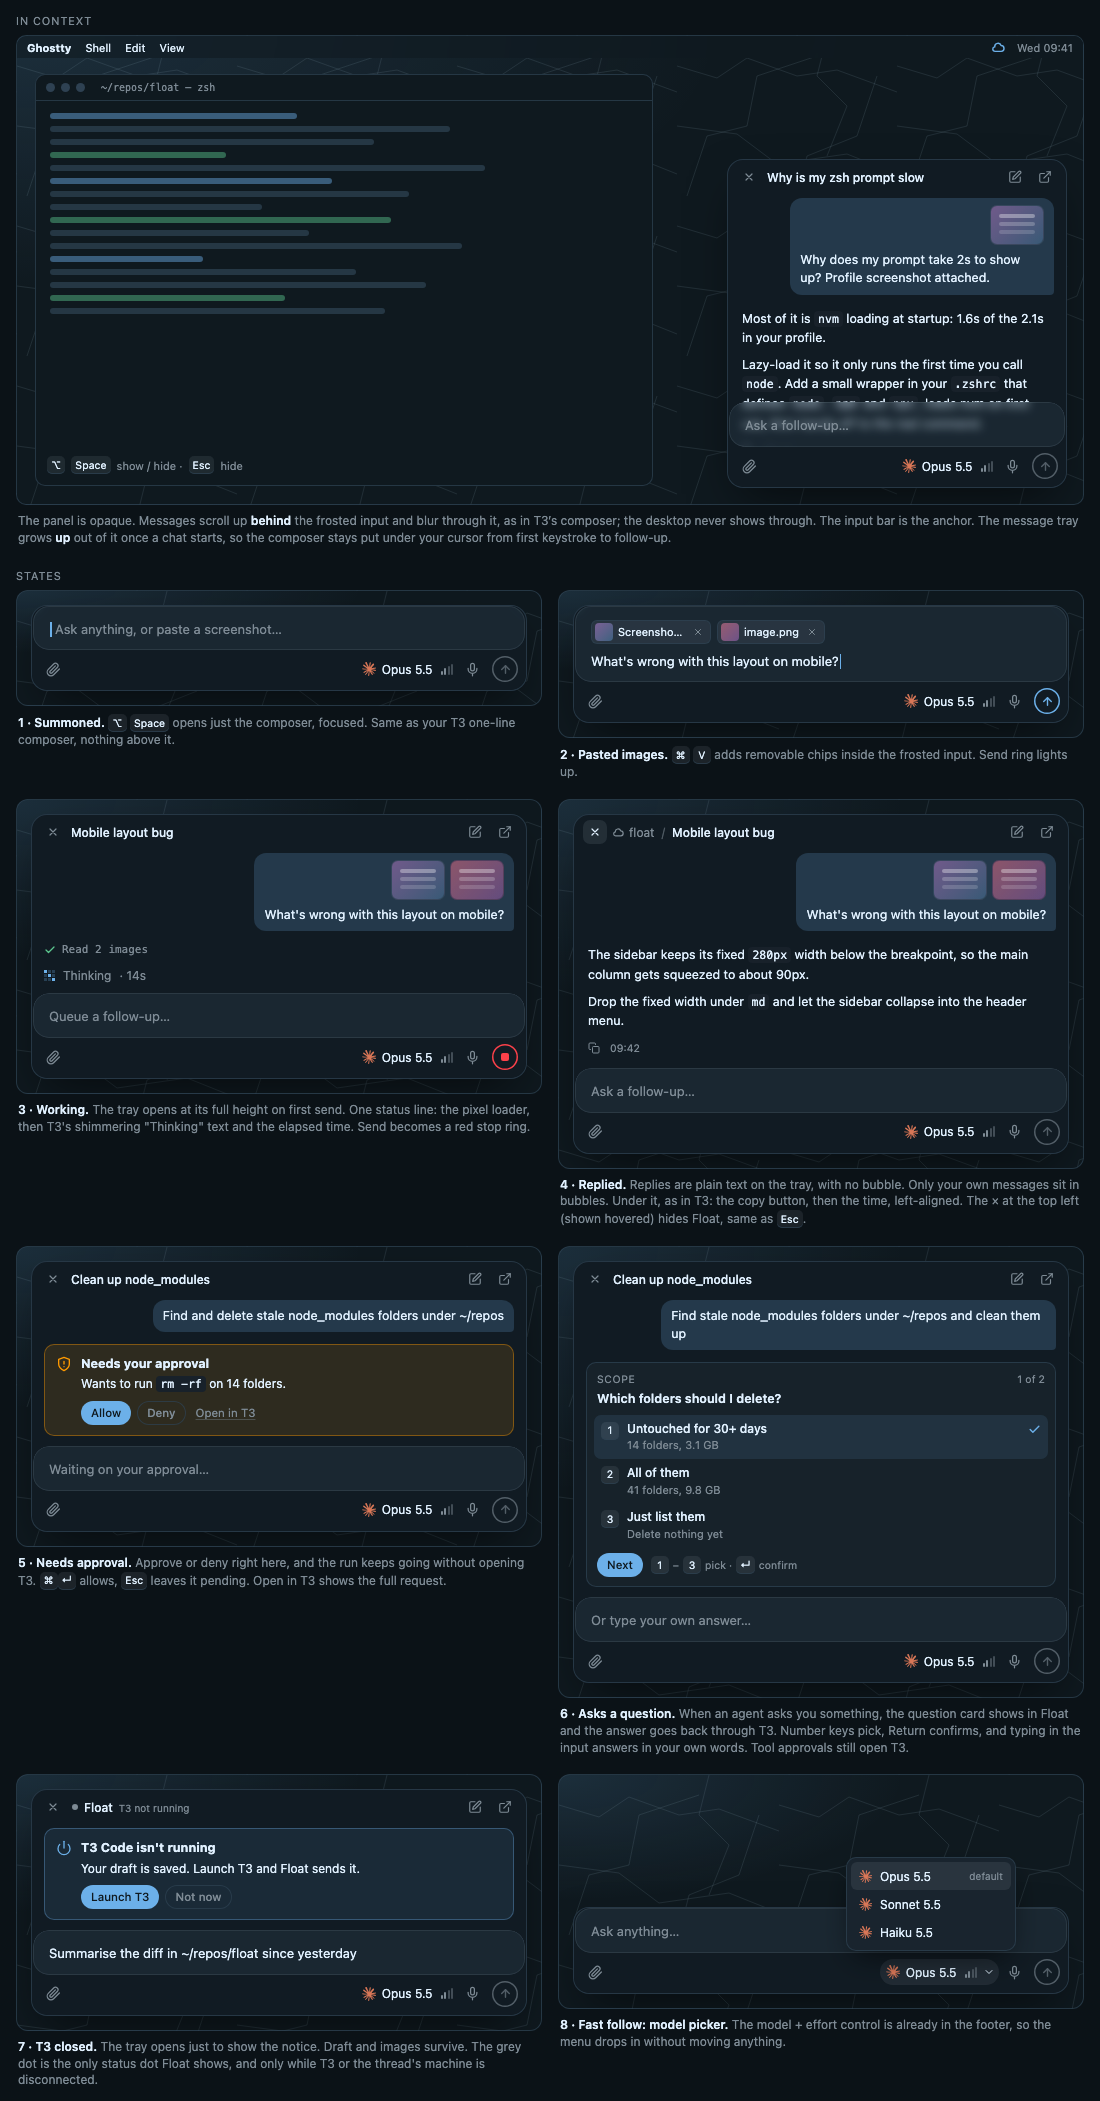
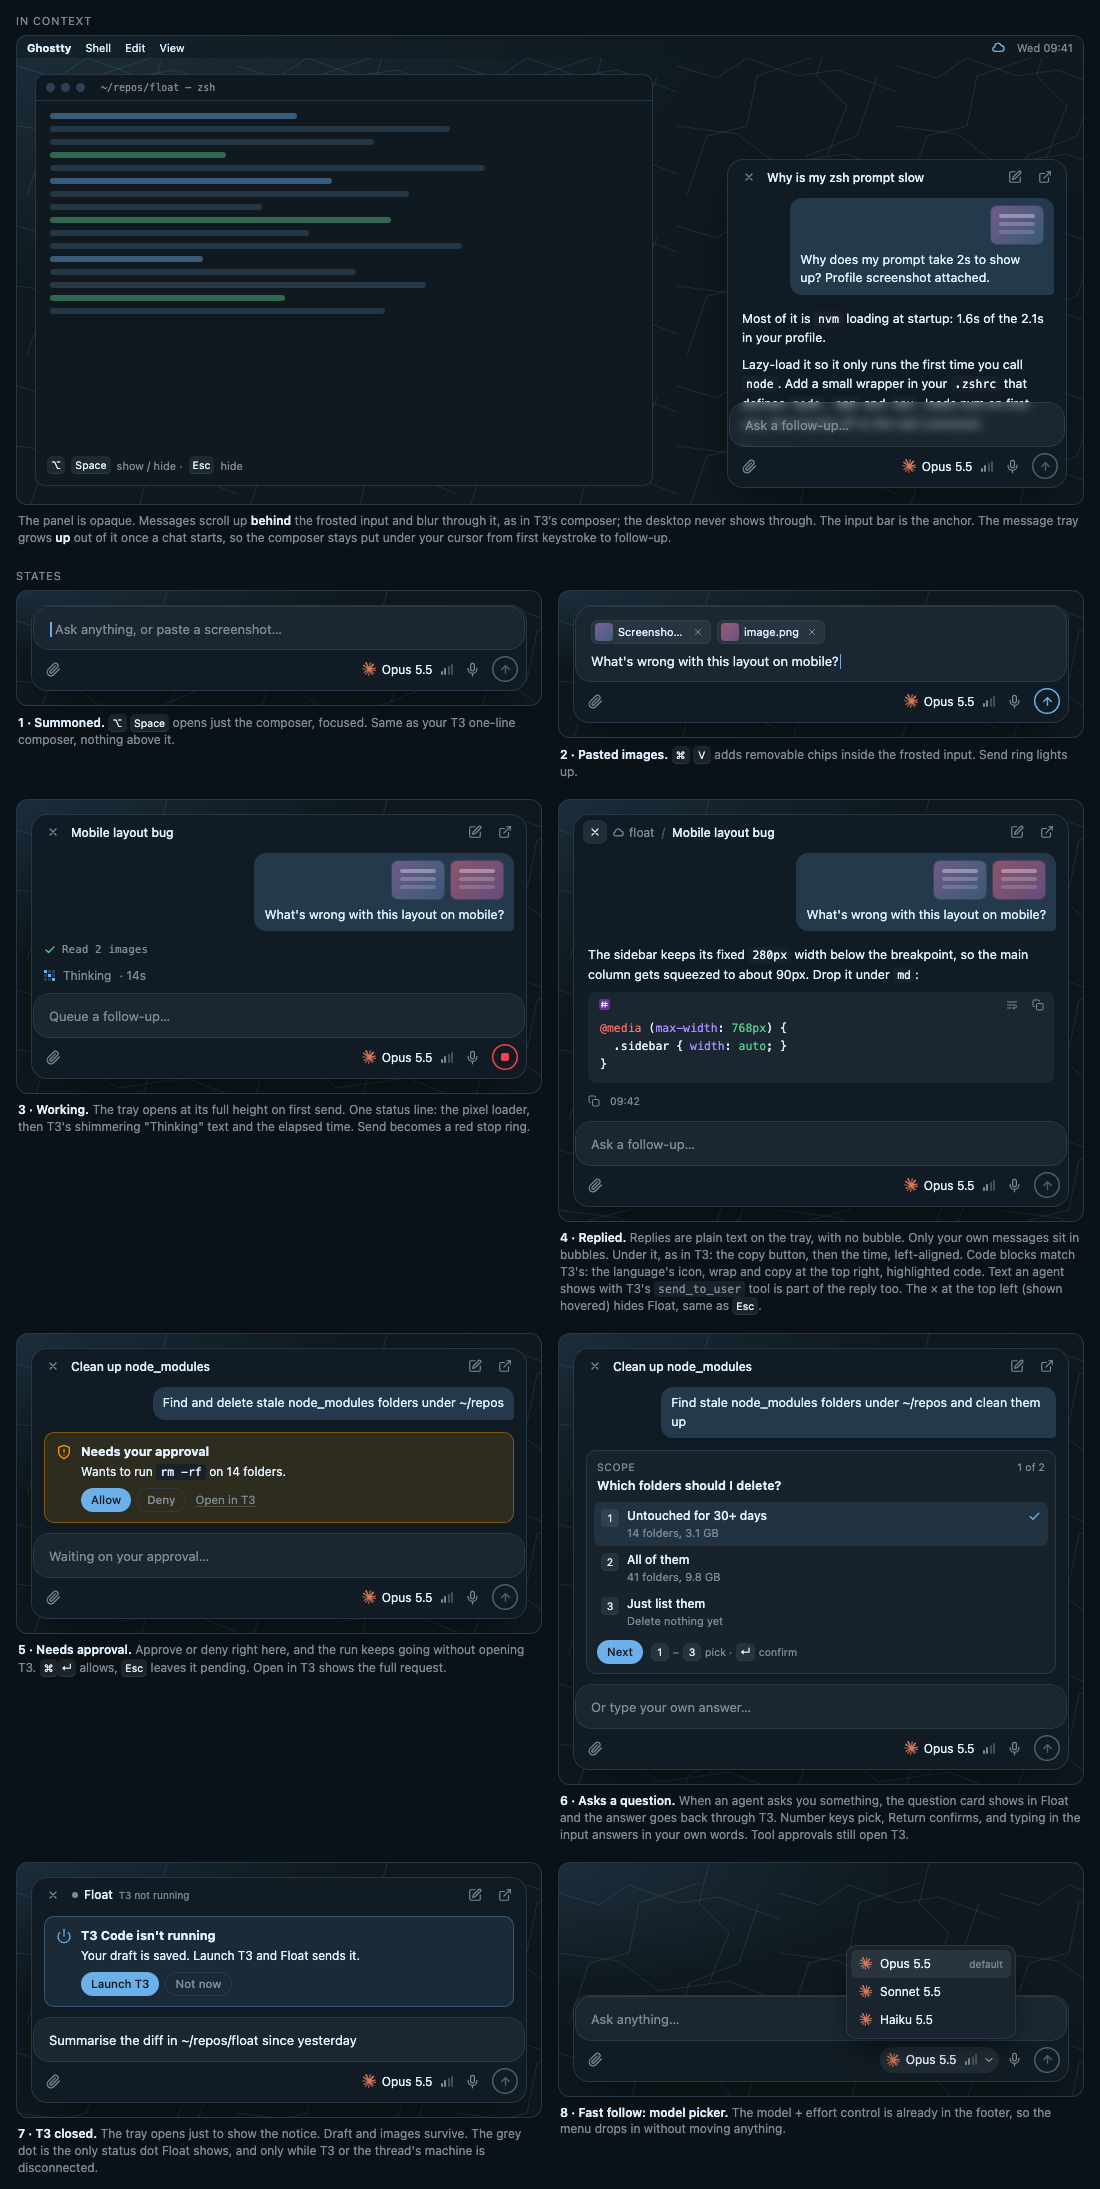
docs(design): show send_to_user text and T3-style code blocks in replies

diff --git a/design/float-mockups.html b/design/float-mockups.html
@@ -112,6 +112,14 @@ code{font-family:var(--font-mono);font-size:11.5px;background:var(--code-backgro
 .crumb .sl{color:var(--muted-foreground);opacity:.55}
 .crumb .tt{color:var(--foreground);font-weight:500;overflow:hidden;text-overflow:ellipsis}
 .crumb .tt small{font-weight:400;color:var(--muted-foreground);margin-left:6px}
+/* Code blocks, as T3's MarkdownCodeBlock: 8px radius, input colour at 32% on dark, header row with the language's file icon on the left and wrap + copy on the right, then highlighted code. Token colours come from T3's own dark code theme. */
+.cb{margin:2px 0 8px;border-radius:8px;background:color-mix(in oklab, var(--border) 32%, transparent);overflow:hidden}
+.cb .ch{display:flex;align-items:center;gap:6px;height:26px;padding:0 6px 0 10px;color:var(--muted-foreground)}
+.cb .ch .lg{width:13px;height:13px;flex:none}
+.cb .ch .sp{flex:1}
+.cb .ch .ib{width:20px;height:20px}.cb .ch .ib svg{width:12px;height:12px}
+.cb pre{margin:0;padding:2px 12px 10px;font-family:var(--font-mono);font-size:11.5px;line-height:1.55;white-space:pre-wrap}
+.tk-k{color:#f47067}.tk-f{color:#a78bfa}.tk-s{color:#57c785}.tk-p{color:var(--foreground)}
 /* Approval actions */
 .apv{display:flex;align-items:center;gap:6px}
 .apv .lnk{margin:8px 0 0 4px;font-size:11.5px;color:var(--muted-foreground);text-decoration:underline;text-decoration-color:color-mix(in oklab,var(--muted-foreground) 40%,transparent);text-underline-offset:2px}
@@ -214,6 +222,7 @@ code{font-family:var(--font-mono);font-size:11.5px;background:var(--code-backgro
     <symbol id="i-clip" viewBox="0 0 24 24" fill="none" stroke="currentColor" stroke-width="2" stroke-linecap="round" stroke-linejoin="round"><path d="m21.4 11.1-9.2 9.2a6 6 0 0 1-8.5-8.5l8.6-8.6a4 4 0 0 1 5.7 5.7l-8.6 8.6a2 2 0 0 1-2.8-2.8l8.5-8.5"/></symbol>
     <symbol id="i-mic" viewBox="0 0 24 24" fill="none" stroke="currentColor" stroke-width="2" stroke-linecap="round" stroke-linejoin="round"><rect x="9" y="2" width="6" height="12" rx="3"/><path d="M19 10v1a7 7 0 0 1-14 0v-1M12 18v4"/></symbol>
     <symbol id="i-x" viewBox="0 0 24 24" fill="none" stroke="currentColor" stroke-width="2.4" stroke-linecap="round"><path d="M18 6 6 18M6 6l12 12"/></symbol>
+    <symbol id="i-wrap" viewBox="0 0 24 24" fill="none" stroke="currentColor" stroke-width="2" stroke-linecap="round" stroke-linejoin="round"><path d="M3 6h18M3 12h15a3 3 0 1 1 0 6h-4"/><path d="m16 16-2 2 2 2"/><path d="M3 18h7"/></symbol>
     <symbol id="i-folder" viewBox="0 0 24 24" fill="none" stroke="currentColor" stroke-width="2" stroke-linecap="round" stroke-linejoin="round"><path d="M3 7a2 2 0 0 1 2-2h4l2 2h8a2 2 0 0 1 2 2v8a2 2 0 0 1-2 2H5a2 2 0 0 1-2-2Z"/></symbol>
     <symbol id="i-burst" viewBox="0 0 256 257" preserveAspectRatio="xMidYMid"><path fill="#D97757" d="m50.228 170.321 50.357-28.257.843-2.463-.843-1.361h-2.462l-8.426-.518-28.775-.778-24.952-1.037-24.175-1.296-6.092-1.297L0 125.796l.583-3.759 5.12-3.434 7.324.648 16.202 1.101 24.304 1.685 17.629 1.037 26.118 2.722h4.148l.583-1.685-1.426-1.037-1.101-1.037-25.147-17.045-27.22-18.017-14.258-10.37-7.713-5.25-3.888-4.925-1.685-10.758 7-7.713 9.397.649 2.398.648 9.527 7.323 20.35 15.75L94.817 91.9l3.889 3.24 1.555-1.102.195-.777-1.75-2.917-14.453-26.118-15.425-26.572-6.87-11.018-1.814-6.61c-.648-2.723-1.102-4.991-1.102-7.778l7.972-10.823L71.42 0 82.05 1.426l4.472 3.888 6.61 15.101 10.694 23.786 16.591 32.34 4.861 9.592 2.592 8.879.973 2.722h1.685v-1.556l1.36-18.211 2.528-22.36 2.463-28.776.843-8.1 4.018-9.722 7.971-5.25 6.222 2.981 5.12 7.324-.713 4.73-3.046 19.768-5.962 30.98-3.889 20.739h2.268l2.593-2.593 10.499-13.934 17.628-22.036 7.778-8.749 9.073-9.657 5.833-4.601h11.018l8.1 12.055-3.628 12.443-11.342 14.388-9.398 12.184-13.48 18.147-8.426 14.518.778 1.166 2.01-.194 30.46-6.481 16.462-2.982 19.637-3.37 8.88 4.148.971 4.213-3.5 8.62-20.998 5.184-24.628 4.926-36.682 8.685-.454.324.519.648 16.526 1.555 7.065.389h17.304l32.21 2.398 8.426 5.574 5.055 6.805-.843 5.184-12.962 6.611-17.498-4.148-40.83-9.721-14-3.5h-1.944v1.167l11.666 11.406 21.387 19.314 26.767 24.887 1.36 6.157-3.434 4.86-3.63-.518-23.526-17.693-9.073-7.972-20.545-17.304h-1.36v1.814l4.73 6.935 25.017 37.59 1.296 11.536-1.814 3.76-6.481 2.268-7.13-1.297-14.647-20.544-15.1-23.138-12.185-20.739-1.49.843-7.194 77.448-3.37 3.953-7.778 2.981-6.48-4.925-3.436-7.972 3.435-15.749 4.148-20.544 3.37-16.333 3.046-20.285 1.815-6.74-.13-.454-1.49.194-15.295 20.999-23.267 31.433-18.406 19.702-4.407 1.75-7.648-3.954.713-7.064 4.277-6.286 25.47-32.405 15.36-20.092 9.917-11.6-.065-1.686h-.583L44.07 198.125l-12.055 1.555-5.185-4.86.648-7.972 2.463-2.593 20.35-13.999-.064.065Z"/></symbol>
     <symbol id="i-chev" viewBox="0 0 24 24" fill="none" stroke="currentColor" stroke-width="2" stroke-linecap="round" stroke-linejoin="round"><path d="m6 9 6 6 6-6"/></symbol>
@@ -292,9 +301,12 @@ const states = [
      input: ph('Queue a follow-up…'), send:'stop'}),
    `<b>3 · Working.</b> The tray opens at its full height on first send. One status line: the pixel loader, then T3's shimmering "Thinking" text and the elapsed time. Send becomes a red stop ring.`],
   [shell({tray: trayTop({title:'Mobile layout bug', project:'float', projectIcon:'float', closeHover:true, body:`<div class="msg-u"><div class="thumbs">${thumb()}${thumb(60)}</div>What's wrong with this layout on mobile?</div>` +
-     reply(['The sidebar keeps its fixed <code>280px</code> width below the breakpoint, so the main column gets squeezed to about 90px.','Drop the fixed width under <code>md</code> and let the sidebar collapse into the header menu.'],'09:42')}),
+     reply(['The sidebar keeps its fixed <code>280px</code> width below the breakpoint, so the main column gets squeezed to about 90px. Drop it under <code>md</code>:',
+       `</p><div class="cb"><div class="ch"><svg class="lg" viewBox="0 0 24 24"><rect x="2" y="2" width="20" height="20" rx="4" fill="#663399"/><path d="M9 7 7.6 17M14.4 7 13 17M6.5 10.2h11M6 13.8h11" stroke="#fff" stroke-width="1.8" stroke-linecap="round"/></svg><span class="sp"></span><span class="ib">${ic('wrap')}</span><span class="ib">${ic('copy')}</span></div><pre><span class="tk-k">@media</span> (<span class="tk-f">max-width</span>: <span class="tk-s">768px</span>) {
+  <span class="tk-p">.sidebar</span> { <span class="tk-f">width</span>: <span class="tk-s">auto</span>; }
+}</pre></div><p>`],'09:42')}),
      input: ph('Ask a follow-up…')}),
-   `<b>4 · Replied.</b> Replies are plain text on the tray, with no bubble. Only your own messages sit in bubbles. Under it, as in T3: the copy button, then the time, left-aligned. The × at the top left (shown hovered) hides Float, same as <span class="kbd">Esc</span>.`],
+   `<b>4 · Replied.</b> Replies are plain text on the tray, with no bubble. Only your own messages sit in bubbles. Under it, as in T3: the copy button, then the time, left-aligned. Code blocks match T3's: the language's icon, wrap and copy at the top right, highlighted code. Text an agent shows with T3's <code>send_to_user</code> tool is part of the reply too. The × at the top left (shown hovered) hides Float, same as <span class="kbd">Esc</span>.`],
   [shell({tray: trayTop({title:'Clean up node_modules', body:`<div class="msg-u">Find and delete stale node_modules folders under ~/repos</div><div class="notice warn">${ic('shield')}<div><b>Needs your approval</b>Wants to run <code>rm -rf</code> on 14 folders.<div class="apv"><span class="btn pri">Allow</span><span class="btn ghost">Deny</span><span class="lnk">Open in T3</span></div></div></div>`}),
      input: ph('Waiting on your approval…')}),
    `<b>5 · Needs approval.</b> Approve or deny right here, and the run keeps going without opening T3. <span class="kbd">⌘</span><span class="kbd">↵</span> allows, <span class="kbd">Esc</span> leaves it pending. Open in T3 shows the full request.`],

diff --git a/design/README.md b/design/README.md
@@ -31,7 +31,7 @@ The colours come from Dylan's nordbones T3 theme. So do the pixel thinking loade
 
 - **Corner radius:** 16 for the shell, 12 for your message bubbles, 10 for cards and menus, 6 for chips.
 - **Thinking loader:** the 3×3 pixel grid, 4 frames, stepping every 300 ms, followed by T3's shimmering "Thinking" text and the elapsed time. The shimmer copies T3's `live-activity-focus` (`apps/web/src/index.css`): the word in the muted colour, with a 4.5rem band of the text colour sweeping left to right every 2.2 s in 30 steps, fading in and out at 12% → 55% → 100% → 55% → 12%. With Reduce Motion, no sweep. These two are the only progress indicators.
-- **Replies:** show only assistant text. Never show tool calls. Replies have no bubble: plain text on the tray, as in T3. Under each reply sits a muted row with the copy button first, then the time, left-aligned. Only your own messages sit in bubbles.
+- **Replies:** show only assistant text. Never show tool calls, with one exception: text an agent shows you through T3's `send_to_user` tool is part of the reply, in order, rendered as Markdown like any other reply text (T3 shows it the same way). Code blocks copy T3's `MarkdownCodeBlock`: radius 8, the input colour at 32% on dark, a header row with the language's file icon from T3's icon set on the left (or the language name when there's no icon) and wrap and copy buttons on the right, then the code highlighted with T3's dark code theme colours, wrapped by default. Replies have no bubble: plain text on the tray, as in T3. Under each reply sits a muted row with the copy button first, then the time, left-aligned. Only your own messages sit in bubbles.
 - **Header:** a close button (×) at the top left, then a crumb as T3 shows a thread: the project's icon (T3's project icon when it has one, otherwise a folder) and name in the muted colour, plus " · <machine>" when the thread isn't on this Mac, then a muted slash, then the title in the text colour. A chat with no project shows just the title. No status dot, except a grey one while T3 or the thread's machine is disconnected. New chat and Open in T3 sit on the right. The × hides the panel, the same as Esc; the draft and chat stay. The compact state has no header, so Esc hides it there. Quit Float lives in the menu bar cloud's right-click menu. You can drag the window by the header as well as the footer.
 - **Questions and approvals:** when an agent asks you something through T3's ask-user-question tool, Float shows a question card in the tray: the header in small caps, "1 of N" when there are several, the question, and the options with their descriptions. Number keys pick, Return confirms, and typing in the input answers in your own words when the question allows it. The answer goes back through T3. Tool approvals are answered in Float too (state 5): the approval card shows what the agent wants to do, with Allow (primary, ⌘↵), Deny, and a small Open in T3 link for the full request, so the run keeps going without opening T3.
 - **Footer:** paperclip on the left; provider icon, model and send/stop on the right.
